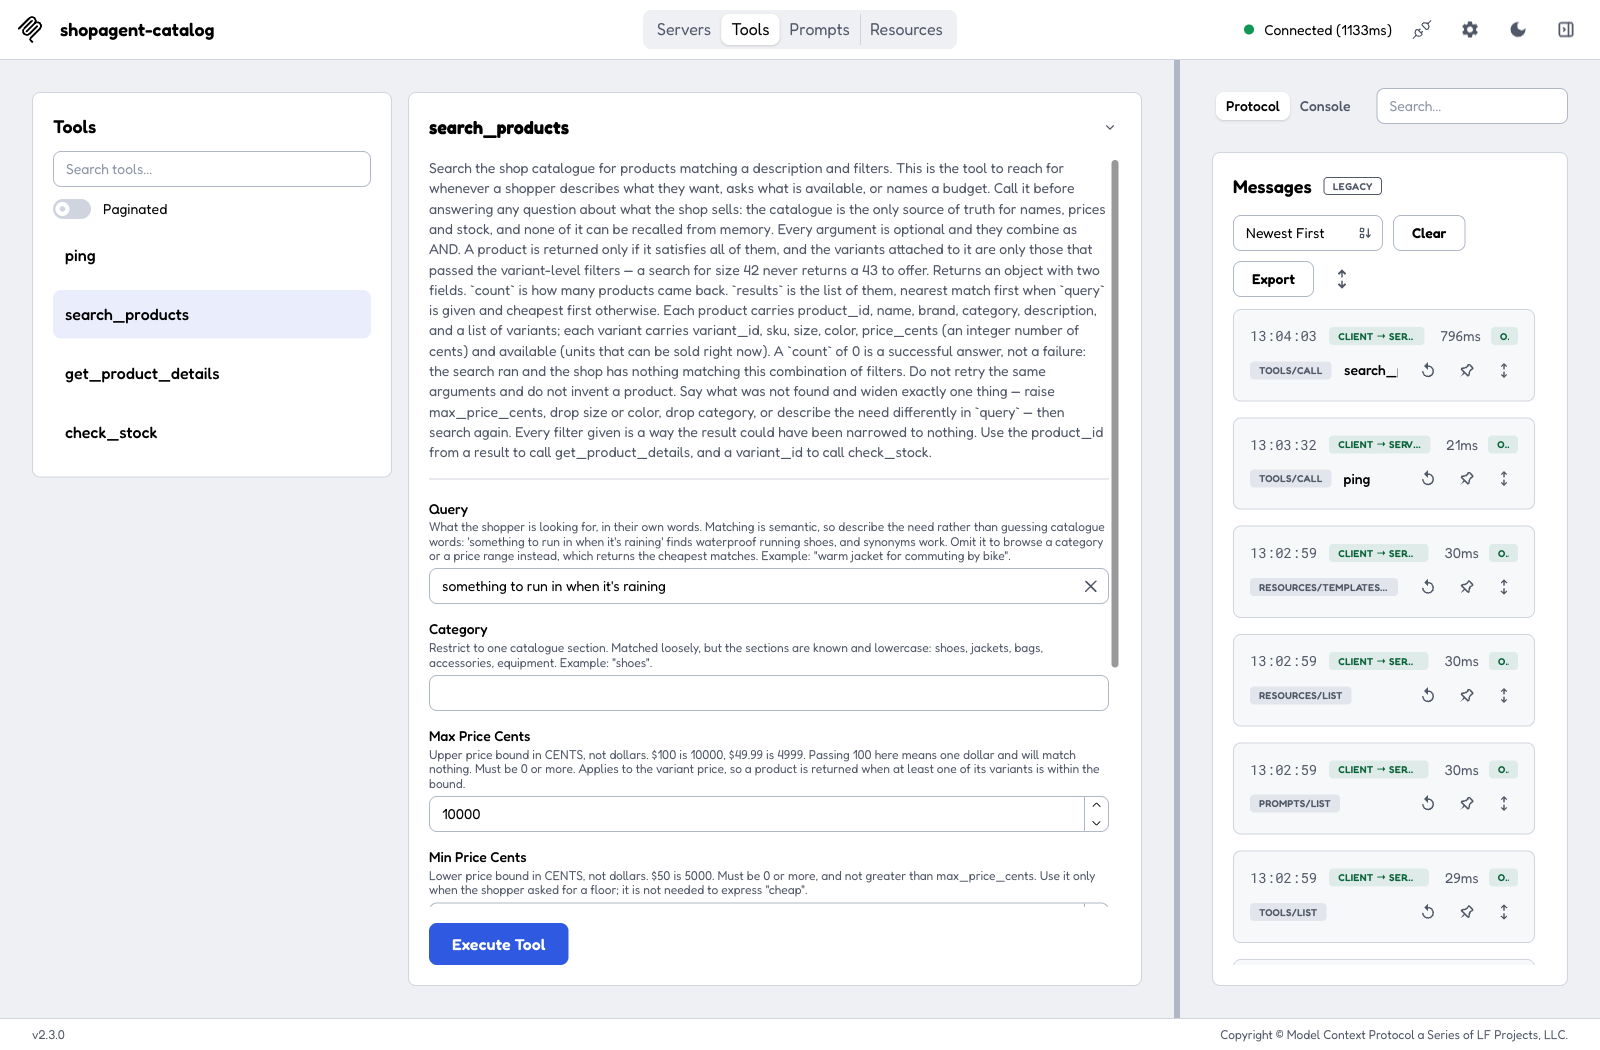
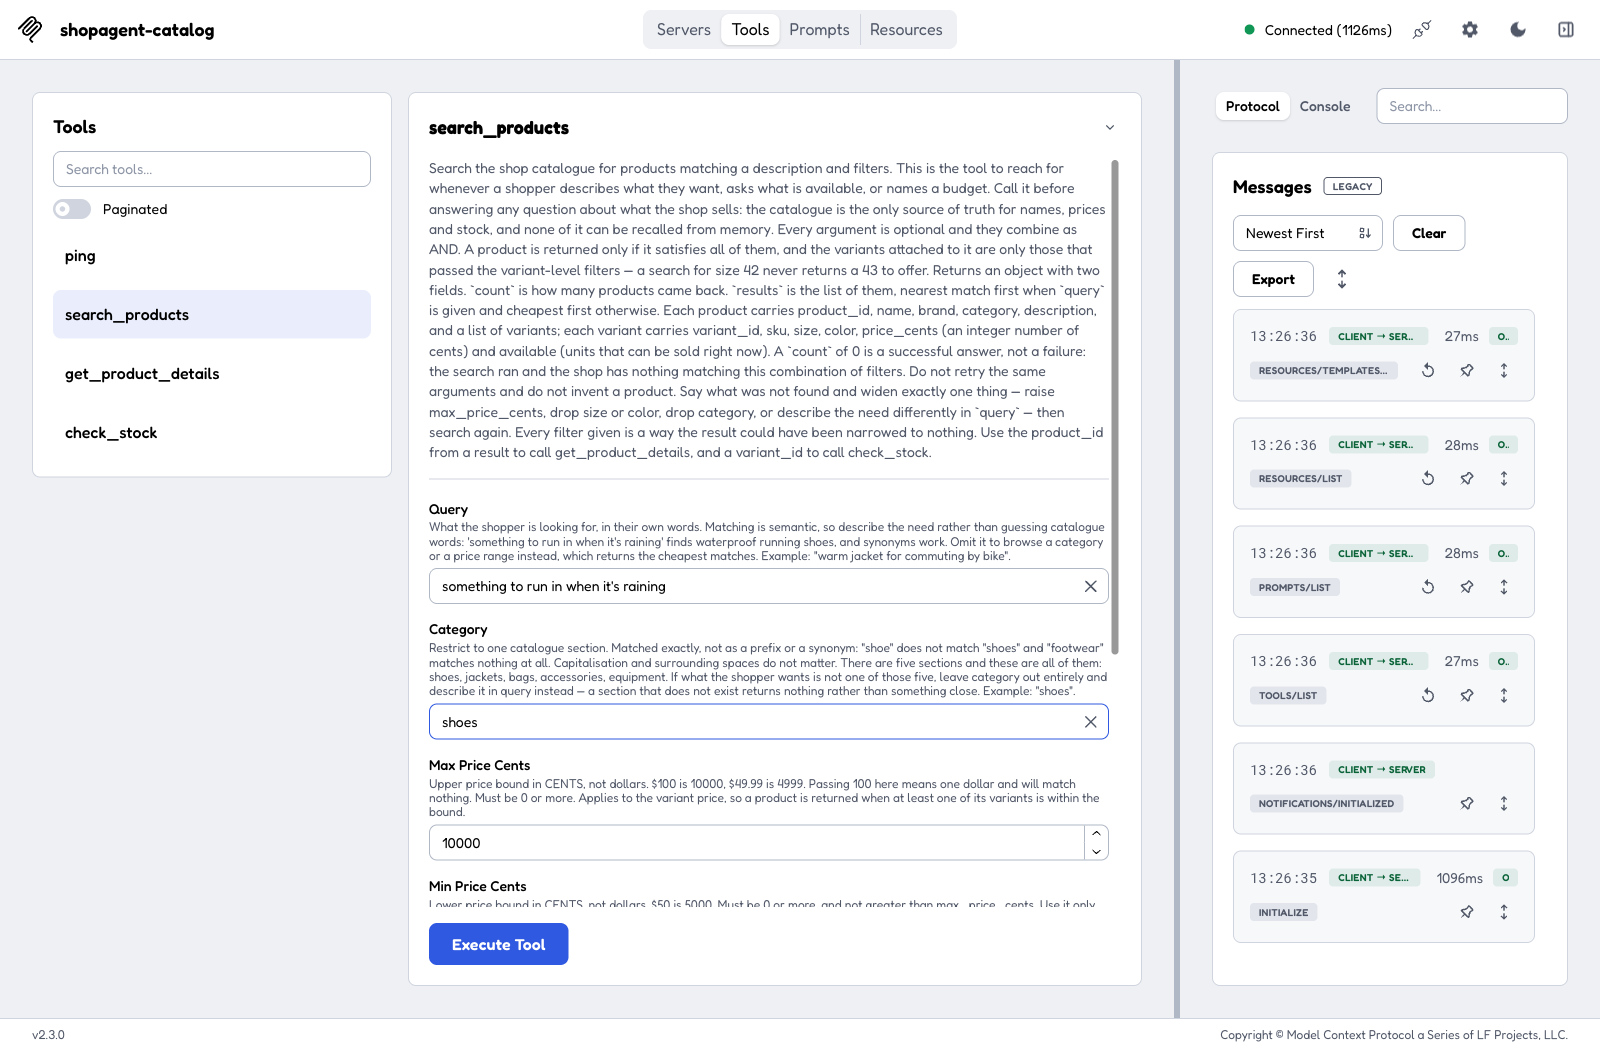
fix: correct category matching description in MCP schema

diff --git a/tests/test_mcp_server.py b/tests/test_mcp_server.py
@@ -545,3 +545,65 @@ def test_the_rewrite_leaves_a_handwritten_message_alone():
     message = message_of(call_over_transport("search_products", {"max_price_cents": -500}))
 
     assert message.endswith("out to search without that bound.")
+
+
+# --- category matches exactly, and the schema has to say so --------------
+#
+# `catalog/search.py` lowercases and trims, then compares for equality. That is
+# the right behaviour — category is a closed set of five values the model has
+# in front of it — but the schema described it as "matched loosely", which
+# invited a near miss like "shoe" and returned an unexplained empty list.
+# The description was the bug. These tests hold the two halves together.
+
+
+def test_the_category_description_promises_exact_matching():
+    """The schema must not advertise fuzziness the query does not have."""
+    description = schema_of("search_products")["properties"]["category"]["description"]
+
+    assert "Matched exactly" in description
+    assert "loosely" not in description.lower()
+
+
+def test_the_category_description_lists_every_section():
+    """A closed set is only useful to the model if the model has all of it."""
+    description = schema_of("search_products")["properties"]["category"]["description"]
+
+    for section in ("shoes", "jackets", "bags", "accessories", "equipment"):
+        assert section in description
+
+
+def test_the_category_description_says_what_to_do_when_it_is_not_a_section():
+    """Without this the model retries synonyms against a closed set forever."""
+    description = schema_of("search_products")["properties"]["category"]["description"]
+
+    assert "query" in description
+
+
+@pytest.mark.db
+def test_a_near_miss_category_returns_nothing_on_purpose(seeded):
+    """"shoe" is not "shoes", and that is deliberate rather than a bug.
+
+    Pinned so nobody later "fixes" it into a prefix or fuzzy match. The closed
+    set is what makes exactness safe: the model is given all five names, so a
+    value outside them is a mistake worth surfacing as an empty result rather
+    than papering over with a guess about what was meant.
+    """
+    result = call_over_transport("search_products", {"category": "shoe", "limit": 50})
+
+    assert result.is_error is False
+    assert count_of(result) == 0
+
+
+@pytest.mark.db
+def test_case_and_surrounding_space_do_not_change_a_category(seeded):
+    """The three spellings the description promises are interchangeable."""
+    counts = {
+        spelling: count_of(
+            call_over_transport("search_products", {"category": spelling, "limit": 50})
+        )
+        for spelling in ("shoes", "Shoes", "  SHOES  ")
+    }
+
+    assert counts["shoes"] > 0, "expected the seeded catalog to contain shoes"
+    assert len(set(counts.values())) == 1, counts
+

diff --git a/src/shopagent/mcp_server/server.py b/src/shopagent/mcp_server/server.py
@@ -249,9 +249,15 @@ def search_products(
         str | None,
         Field(
             description=(
-                "Restrict to one catalogue section. Matched loosely, but the "
-                "sections are known and lowercase: shoes, jackets, bags, "
-                'accessories, equipment. Example: "shoes".'
+                "Restrict to one catalogue section. Matched exactly, not as a "
+                'prefix or a synonym: "shoe" does not match "shoes" and '
+                '"footwear" matches nothing at all. Capitalisation and '
+                "surrounding spaces do not matter. There are five sections and "
+                "these are all of them: shoes, jackets, bags, accessories, "
+                "equipment. If what the shopper wants is not one of those five, "
+                "leave category out entirely and describe it in query instead — "
+                "a section that does not exist returns nothing rather than "
+                'something close. Example: "shoes".'
             )
         ),
     ] = None,
